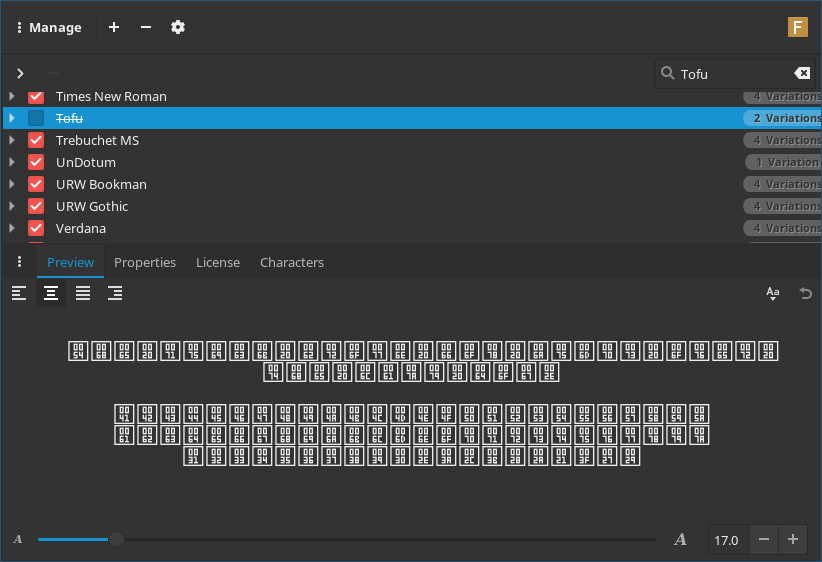
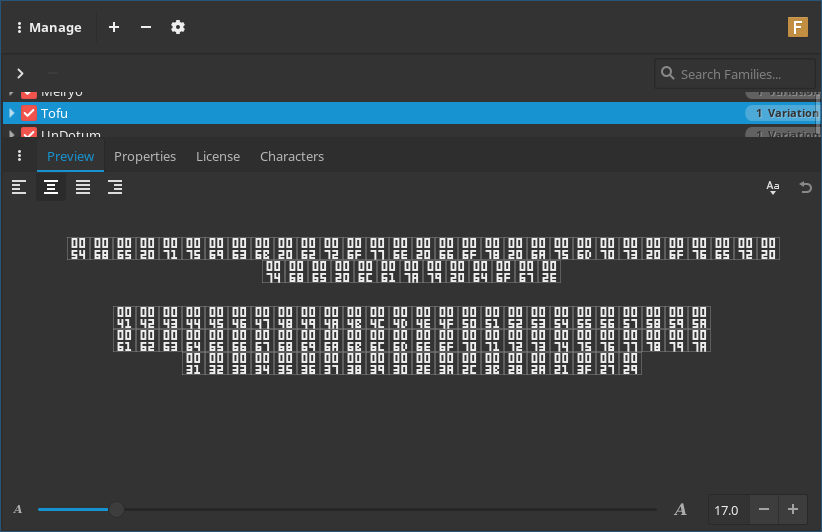
Improved readability, removed big border, added copyright

diff --git a/gen_tofu.py b/gen_tofu.py
@@ -11,6 +11,8 @@ def irange(start, end=None):
         return range(start, end+1)
 
 def main():
+    MAGIC_PADDING = 1/94 * 1000
+
     parser = argparse.ArgumentParser(description='Generate Tofu font.')
 
     parser.add_argument('start', metavar='Start', type=str, nargs=1,
@@ -35,20 +37,17 @@ def main():
         print("End argument must be 4 or 5 characters long. Ex. 0000 or 10000.")
         exit(2)
 
-    hex_chars = '0123456789ABCDEF'
-
-    if any(c not in hex_chars for c in start_str):
+    try:
+        start = int(start_str, 16)
+    except ValueError:
         print("Start argument must only contain hexadecimal characters.")
         exit(2)
 
-    if any(c not in hex_chars for c in end_str):
+    try:
+        end = int(end_str, 16)
+    except ValueError:
         print("End argument must only contain hexadecimal characters.")
         exit(2)
-    
-    print("Generating Tofu for unicode characters between U+{} and U+{}".format(start_str, end_str))
-
-    start = int(start_str, 16)
-    end = int(end_str, 16)
 
     if start >= end:
         print("Start must be less than end")
@@ -64,11 +63,19 @@ def main():
         exit(2)
 
 
+    print("Generating Tofu for unicode characters between U+{} and U+{}".format(start_str, end_str))
+
+
     # return
     progressbar.streams.wrap_stderr()
     bar = progressbar.ProgressBar()
     font = fontforge.font() # create a new font
     font.familyname = 'Tofu'
+    font.fontname = 'Tofu'
+    font.fullname = 'Tofu {} - {}'.format(start_str, end_str)
+    font.comment = 'The complete opposite of a font'
+    font.version = '0.1'
+    font.copyright = open('FONT_LICENSE', 'r').read()
 
     for i in bar(irange(start, end)):
         codepoint = hex(i)[2:].upper()
@@ -76,33 +83,33 @@ def main():
 
         char = font.createChar(i)
         char.importOutlines(save_svg(i))
-        char.width = 1000
-        char.left_side_bearing = 58.8232421875 # to ensure zero width characters are not
-        char.right_side_bearing = 58.8232421875
+        char.width = 1000 # shouldnt _have_ to do this, but you never know
+        char.left_side_bearing = MAGIC_PADDING # to ensure zero width characters are not
+        char.right_side_bearing = MAGIC_PADDING
 
     save_name = 'tofu_{}_{}.{}'.format(start_str, end_str, 'otf' if args.otf else 'ttf')
     print("Saving as {}".format(save_name))
     font.generate(save_name)
 
 
-char_template = '<path fill="#000" d="{}"/>'
+char_template = '<path d="{}"/>'
 chars_d = { # these are all paths to make the character associated. I made them
-    '0': 'v5h3v-5zm1,1h1v3h-1z',
-    '1': 'v1h1v3h-1v1h3v-1h-1v-4z',
-    '2': 'v1h2v1h-2v3h3v-1h-2v-1h2v-3z',
-    '3': 'v1h2v1h-2v1h2v1h-2v1h3v-5z',
-    '4': 'v3h2v2h1v-5h-1v2h-1v-2z',
-    '5': 'v3h2v1h-2v1h3v-3h-2v-1h2v-1z',
-    '6': 'v5h3v-3h-2v-1h2v-1zm1,3h1v1h-1z',
-    '7': 'v1h2v4h1v-5z',
-    '8': 'v5h3v-5zm1,1h1v1h-1zm0,2h1v1h-1z',
-    '9': 'v3h2v2h1v-5zm1,1h1v1h-1z',
-    'A': 'v5h1v-2h1v2h1v-5zm1,1h1v1h-1z',
-    'B': 'v5h3v-2h-1v1h-1v-1h1v-1h-1v-1h1v1h1v-2z',
-    'C': 'v5h3v-1h-2v-3h2v-1z',
-    'D': 'v5h2v-1h1v-3h-1v3h-1v-3h1v-1z',
-    'E': 'v5h3v-1h-2v-1h2v-1h-2v-1h2v-1z',
-    'F': 'v5h1v-2h2v-1h-2v-1h2v-1z',
+    "0":"v40h24v-40zm8,8h8v24h-8z",
+    "1":"v8h8v24h-8v8h24v-8h-8v-32z",
+    "2":"v8h16v8h-16v24h24v-8h-16v-8h16v-24z",
+    "3":"v8h16v8h-16v8h16v8h-16v8h24v-40z",
+    "4":"v24h16v16h8v-40h-8v16h-8v-16z",
+    "5":"v24h16v8h-16v8h24v-24h-16v-8h16v-8z",
+    "6":"v40h24v-24h-16v-8h16v-8zm8,24h8v8h-8z",
+    "7":"v8h16v32h8v-40z",
+    "8":"v40h24v-40zm8,8h8v8h-8zm0,16h8v8h-8z",
+    "9":"v24h16v16h8v-40zm8,8h8v8h-8z",
+    "A":"v40h8v-16h8v16h8v-40zm8,8h8v8h-8z",
+    "B":"v40h24v-16h-8v8h-8v-8h8v-8h-8v-8h8v8h8v-16z",
+    "C":"v40h24v-8h-16v-24h16v-8z",
+    "D":"v40h16v-8h8v-24h-8v24h-8v-24h8v-8z",
+    "E":"v40h24v-8h-16v-8h16v-8h-16v-8h16v-8z",
+    "F":"v40h8v-16h16v-8h-16v-8h16v-8z",
 }
 
 def save_svg(char):
@@ -116,16 +123,16 @@ def gen_svg(char):
     if not isinstance(char, int):
         char = ord(char)
 
-    svg = '''<svg viewBox="0 0 17 17"><path fill="#000" d="M1,1v15h15v-15zm1,1h13v13h-13z"/>'''
+    svg = '''<svg viewBox="0 0 94 94" fill="#000"><path d="M1,1v92h92v-92zm1,1h90v90h-90z"/>'''
     
     codepoint = hex(char)[2:].upper()
     codepoint = codepoint.zfill(6 if len(codepoint) > 4 else 4)
     
     for i,c in enumerate(codepoint):
         if len(codepoint) is 4:
-            start = 'M{},{}'.format(5 + (4 * (i % 2)), 3 + 6 * (i // 2))
+            start = 'M{},{}'.format(19 + (32 * (i % 2)), 3 + 48 * (i // 2))
         else:
-            start = 'M{},{}'.format(3 + (4 * (i % 3)), 3 + 6 * (i // 3))
+            start = 'M{},{}'.format(3 + (32 * (i % 3)), 3 + 48 * (i // 3))
 
         svg += char_template.format(start + chars_d[c]);
         

diff --git a/README.md b/README.md
@@ -16,7 +16,7 @@ Because I wanted zero width characters in my code to be not zero width. I was tr
 Yeah probably, but for its very specific use case it's not terribly bad.
 
 ### Generating a font
-**WARNING**: PLEASE DO NOT RUN THIS CODE ON A HARD DRIVE, I'M NOT SURE HOW LONG IT WOULD TAKE. I USED A RAM DISK
+Caching should take care of the intensive IO issue, if not then use a ramdisk.
 
 I used python3 for this, it may work in python2. If it does not please feel free to make a pull request to fix it but I am not actively supporting python2.
 
